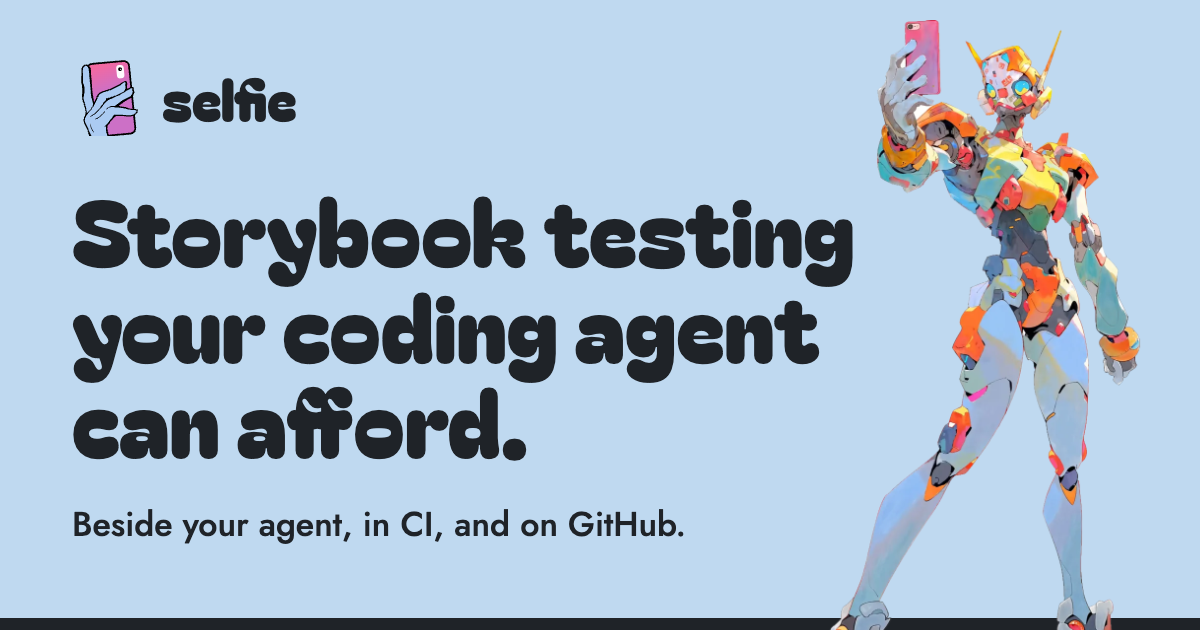
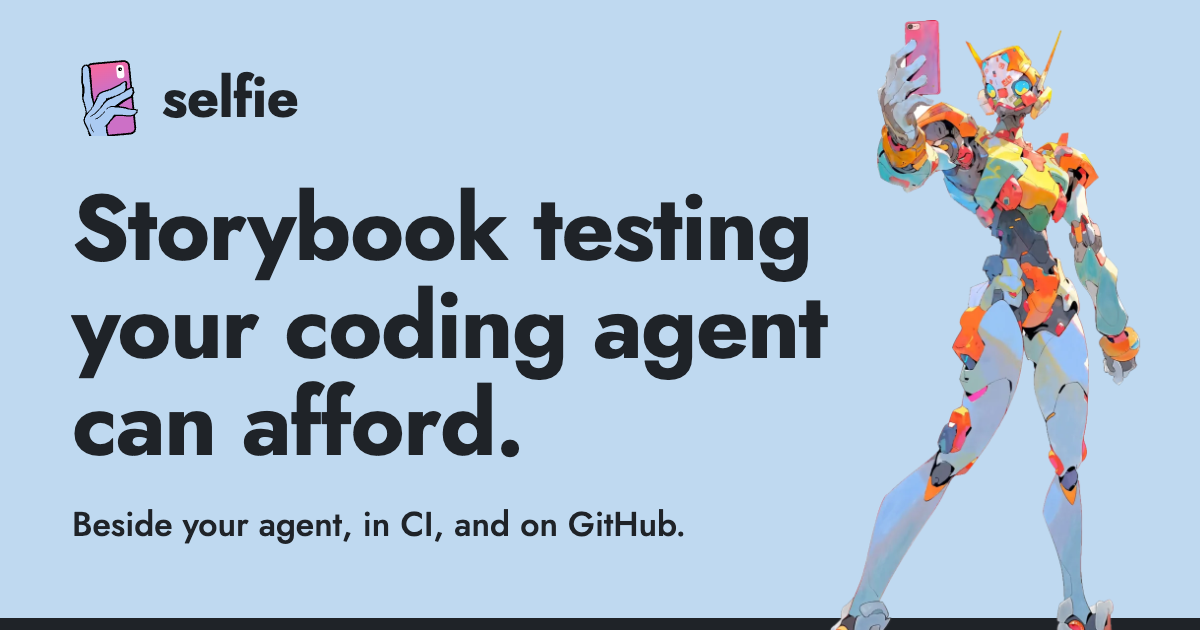
Remove Bagel Fat One from the design
Headings and the wordmark now use Jost Bold, and the social card is
regenerated to match.

Changed region(s): [[0.0617, 0.3016, 0.7092, 0.754], [0.1233, 0.0905, 0.2467, 0.2111]]

diff --git a/public/style.css b/public/style.css
@@ -1,4 +1,3 @@
-@font-face { font-family: "Bagel Fat One"; src: url("/fonts/BagelFatOne.woff2") format("woff2"); font-display: swap; }
 @font-face { font-family: "Jost"; src: url("/fonts/Jost.woff2") format("woff2"); font-weight: 100 900; font-display: swap; }
 
 :root {
@@ -20,7 +19,7 @@ a { color: inherit; text-underline-offset: 0.15em; }
 a:hover { text-decoration-thickness: 2px; }
 :focus-visible { outline: 3px solid var(--pink); outline-offset: 3px; }
 code { font: 0.86em ui-monospace, SFMono-Regular, Menlo, monospace; }
-h1, h2 { margin: 0; font-family: "Bagel Fat One", "Jost", sans-serif; font-weight: 400; line-height: 1.05; text-wrap: balance; }
+h1, h2 { margin: 0; font-weight: 700; letter-spacing: -0.015em; line-height: 1.08; text-wrap: balance; }
 h2 { font-size: clamp(2rem, 4vw, 2.75rem); }
 .wrap { width: min(1120px, 100% - 2.5rem); margin-inline: auto; }
 
@@ -28,7 +27,7 @@ h2 { font-size: clamp(2rem, 4vw, 2.75rem); }
 .strip p { margin: 0; }
 .strip a { color: var(--yellow); font-weight: 600; white-space: nowrap; }
 
-.brand { display: inline-flex; align-items: center; gap: 0.5rem; font: 400 1.875rem/1 "Bagel Fat One", sans-serif; text-decoration: none; }
+.brand { display: inline-flex; align-items: center; gap: 0.5rem; font-size: 1.875rem; font-weight: 700; line-height: 1; letter-spacing: -0.01em; text-decoration: none; }
 
 .hero { overflow: hidden; background: var(--sky); border-bottom: var(--edge); }
 .hero-grid { display: grid; grid-template-columns: minmax(0, 1fr) 330px; gap: 2rem; align-items: end; }

diff --git a/public/index.html b/public/index.html
@@ -13,7 +13,6 @@
   <meta property="og:image" content="https://selfie.dev/img/og.png">
   <meta name="twitter:card" content="summary_large_image">
   <link rel="icon" type="image/svg+xml" href="/logo-icon.svg">
-  <link rel="preload" href="/fonts/BagelFatOne.woff2" as="font" type="font/woff2" crossorigin>
   <link rel="preload" href="/fonts/Jost.woff2" as="font" type="font/woff2" crossorigin>
   <link rel="stylesheet" href="/style.css">
 </head>

diff --git a/README.md b/README.md
@@ -27,4 +27,4 @@ pnpm test    # checks the redirects, the links, and the 404 against that server
 
 ## Licenses
 
-The logo and mascot come from [`branding/`](https://github.com/diffplug/selfie-hackathon/tree/main/branding) in selfie-hackathon, under Apache-2.0 ([LICENSE-branding](LICENSE-branding)). Bagel Fat One and Jost are under OFL-1.1.
+The logo and mascot come from [`branding/`](https://github.com/diffplug/selfie-hackathon/tree/main/branding) in selfie-hackathon, under Apache-2.0 ([LICENSE-branding](LICENSE-branding)). Jost is under OFL-1.1.
